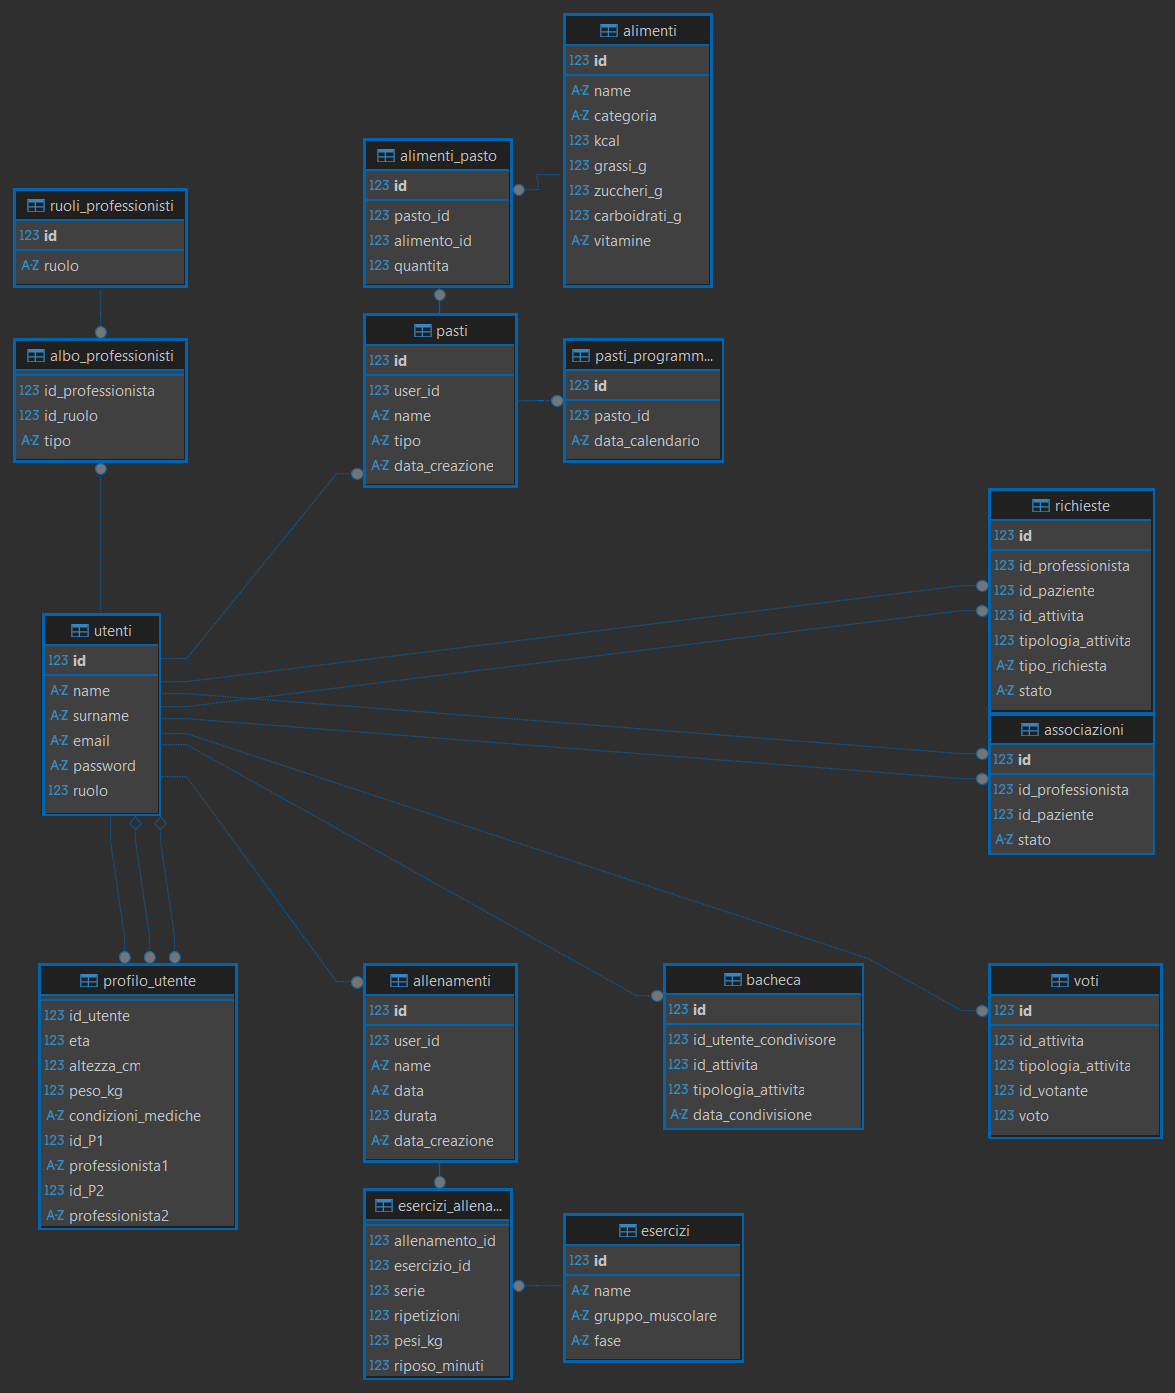
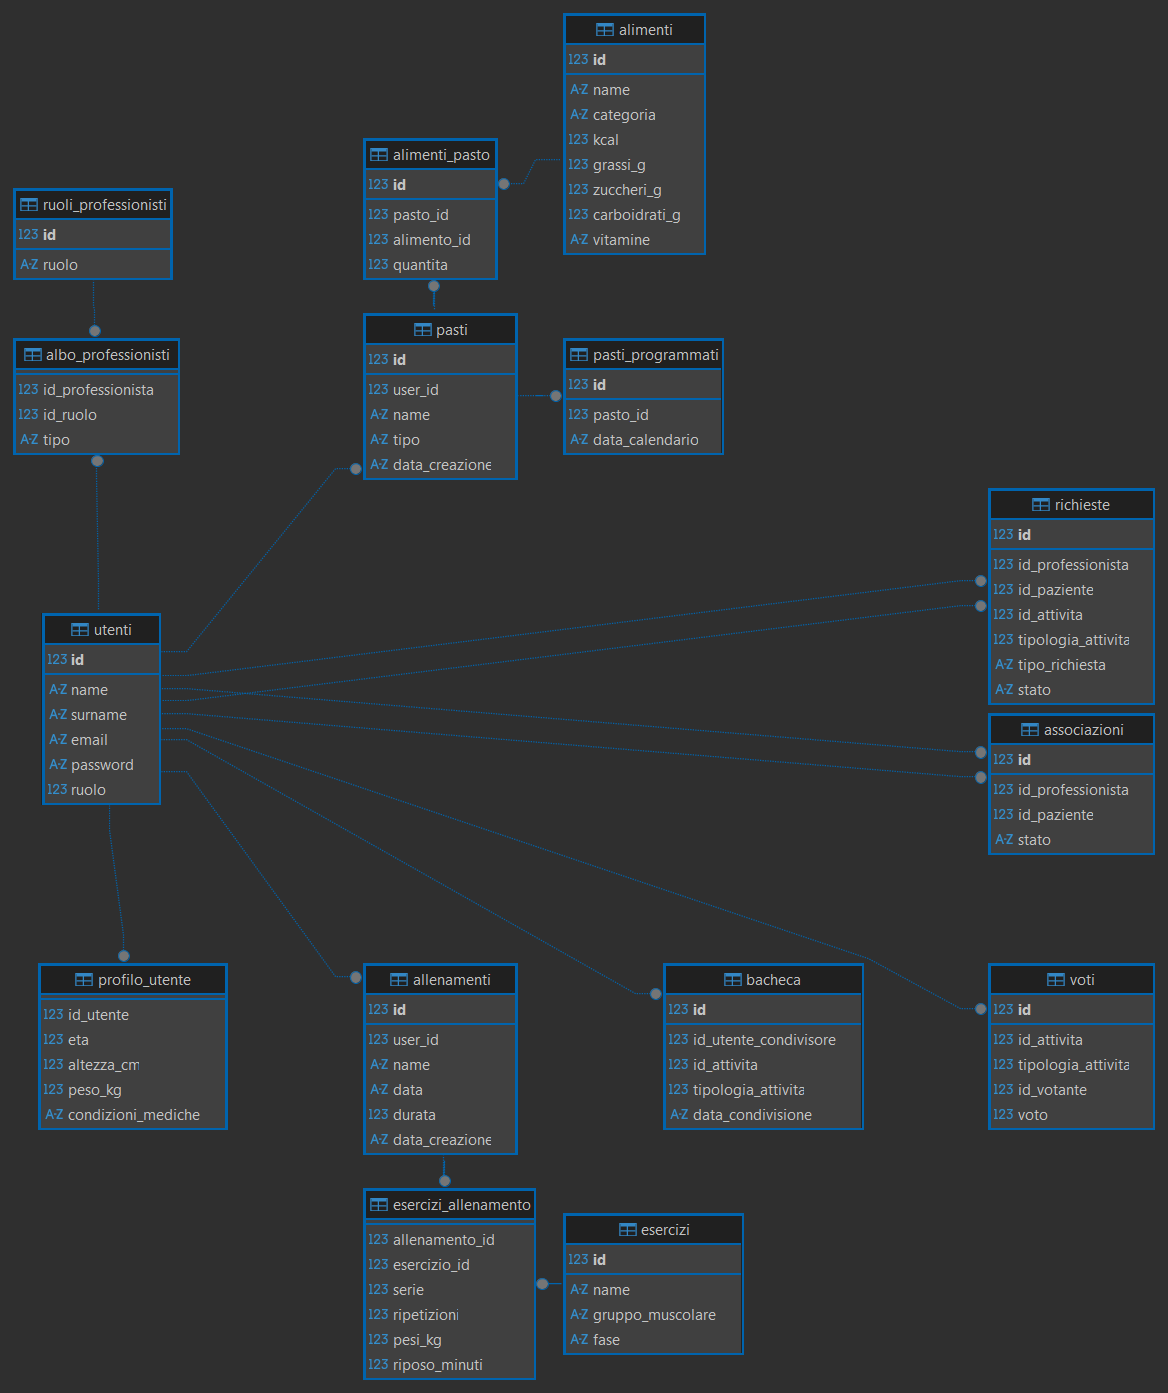
finalizzazione progetto

diff --git a/Express_Backend/db.js b/Express_Backend/db.js
@@ -36,13 +36,7 @@ db.serialize(() => {
         altezza_cm INTEGER,
         peso_kg INTEGER,
         condizioni_mediche VARCHAR(255),
-        id_P1 INTEGER,
-        professionista1 VARCHAR(50),
-        id_P2 INTEGER,
-        professionista2 VARCHAR(50),
-        FOREIGN KEY(id_utente) REFERENCES utenti(id),
-        FOREIGN KEY(id_P1) REFERENCES utenti(id),
-        FOREIGN KEY(id_P2) REFERENCES utenti(id)
+        FOREIGN KEY(id_utente) REFERENCES utenti(id) ON DELETE CASCADE
     )`, (err) => {
         if (err) {
             console.error('Errore nella creazione della tabella profilo_utente ' + err.message);
@@ -104,17 +98,13 @@ db.serialize(() => {
     });
 
     //creazione della tabella dei voti delle attività
-    /*db.run('DROP TABLE IF EXISTS voti', (err) => {
-        if (err) {
-            console.error('Errore nella cancellazione della tabella voti ' + err.message);
-        }
-    });*/
     db.run(`CREATE TABLE IF NOT EXISTS voti (
         id INTEGER PRIMARY KEY AUTOINCREMENT,
         id_attivita INTEGER NOT NULL,
         tipologia_attivita INTEGER NOT NULL,
         id_votante INTEGER NOT NULL,
         voto INTEGER NOT NULL,
+        UNIQUE(id_attivita, tipologia_attivita, id_votante),
         FOREIGN KEY(id_votante) REFERENCES utenti(id) ON DELETE CASCADE
     )`, (err) => {
         if (err) {
@@ -123,11 +113,6 @@ db.serialize(() => {
     });
 
     //creazione della tabella della bacheca
-    /*db.run('DROP TABLE IF EXISTS bacheca', (err) => {
-        if (err) {
-            console.error('Errore nella cancellazione della tabella bacheca ' + err.message);
-        }
-    });*/
     db.run(`CREATE TABLE IF NOT EXISTS bacheca (
         id INTEGER AUTO_INCREMENT PRIMARY KEY,
         id_utente_condivisore INTEGER NOT NULL,
@@ -259,20 +244,6 @@ db.serialize(() => {
             comando.run('Diabetologo');
             comando.run('Chiropratico');
             comando.run('Dietista');
-        }
-    });
-
-    //popolazione della tabella albo_professionisti se non è già popolata
-    //la tabella albo_professionisti va continuata a popolare tramite registrazione o modifica profilo professionista
-    db.get('SELECT COUNT(*) AS count FROM albo_professionisti', (err, row) => {
-        if (err) {
-            console.error('Errore nella selezione degli albo_professionisti ' + err.message);
-        } else if (row.count === 0) {
-            const comando = db.prepare('INSERT INTO albo_professionisti (id_professionista, id_ruolo, tipo) VALUES (?, ?, ?)');
-            comando.run(5, 2, 'Allenamenti');
-            comando.run(6, 1, 'Alimentazione');
-            comando.run(7, 7, 'Allenamenti');
-            comando.run(8, 3, 'Alimentazione');
         }
     });
 

diff --git a/Express_Backend/services/bachecaServices.js b/Express_Backend/services/bachecaServices.js
@@ -45,11 +45,18 @@ class BachecaServices {
     }
 
     static async votaAttivita(id_utente, attivita) {
-        const votata = await Bacheca.votaAttivita(id_utente, attivita);
-        if(votata) {
-            throw new Error('Errore nella votazione dell\'attività');
+        try {
+            const votata = await Bacheca.votaAttivita(id_utente, attivita);
+            if(!votata) {
+                throw {status: 500, message:'Errore nella votazione dell\'attività'};
+            }
+            return votata;
+        } catch (e) {
+            if(e?.code === 'SQLITE_CONSTRAINT' || e?.code === 'SQLITE_CONSTRAINT_UNIQUE' || e?.code === 'SQLITE_CONSTRAINT_PRIMARYKEY') {
+                throw {status: 409, message:'Hai già votato questa attività'};
+            }
+            throw e;
         }
-        return votata;
     };
 }
 module.exports = BachecaServices;

diff --git a/HEIDI/src/app/pages/allenamenti/creazione-allenamento/creazione-allenamento.page.ts b/HEIDI/src/app/pages/allenamenti/creazione-allenamento/creazione-allenamento.page.ts
@@ -85,9 +85,6 @@ esercizio_da_aggiungere:any = null //variabile per la gestione delle info
         const durataAllenamento = this.allenamentoForm.value.durata;
         //grazie al metodo split() posso trasformare il formato della data da YYYY-MM-dd T ore:minuti
         //al formato YYYY-MM-DD, escludendo così l'informazione sull'orario
-        console.log('Giorno letto:', giornoAllenamento);
-        console.log('giorno è di tipo:', typeof(giornoAllenamento));
-
         //ricava i dati inseriti nel form e quindi procede a controllare se esiste già un allenamento nello stesso giorno
     //se esiste, ritorna con un messaggio di errore impostato dal flag true
     //se non esiste, procede alla creazione dell'allenamento con i dati inseriti

diff --git a/HEIDI/src/app/pages/bacheca/bacheca.page.ts b/HEIDI/src/app/pages/bacheca/bacheca.page.ts
@@ -216,7 +216,14 @@ export class BachecaPage implements OnInit {
       }
       attivita.modalita_voto = false;
       attivita.disable_voto = true;
-    } catch(error) {
+    } catch(error:any) {
+      const message = error?.error?.error || error?.error?.message || 'Errore interno del server';
+      const alert = await this.alertController.create({
+        header: 'Occhio',
+        message: message,
+        buttons: ['OK']
+      });
+      await alert.present();
       console.log(error);
     }
   }

diff --git a/HEIDI/src/app/pages/allenamenti/allenamenti-utente/allenamenti-utente.page.ts b/HEIDI/src/app/pages/allenamenti/allenamenti-utente/allenamenti-utente.page.ts
@@ -266,7 +266,14 @@ export class AllenamentiUtentePage implements OnInit{
       }
 
       this.modalita_voto = false;
-    } catch(error) {
+    } catch(error:any) {
+      const message = error?.error?.error || error?.error?.message || 'Errore interno del server';
+      const alert = await this.alertController.create({
+        header: 'Occhio',
+        message: message,
+        buttons: ['OK']
+      });
+      await alert.present();
       console.log(error);
     }
   }

diff --git a/HEIDI/src/app/pages/pasti/pasti-utente/pasti-utente.page.ts b/HEIDI/src/app/pages/pasti/pasti-utente/pasti-utente.page.ts
@@ -324,7 +324,14 @@ export class PastiUtentePage implements OnInit {
       }
 
       this.modalita_voto = false;
-    } catch(error) {
+    } catch(error:any) {
+      const message = error?.error?.error || error?.error?.message || 'Errore interno del server';
+      const alert = await this.alertController.create({
+        header: 'Occhio',
+        message: message,
+        buttons: ['OK']
+      });
+      await alert.present();
       console.log(error);
     }
   }

diff --git a/HEIDI/src/app/components/modifica-dettagli/modifica-dettagli.component.ts b/HEIDI/src/app/components/modifica-dettagli/modifica-dettagli.component.ts
@@ -66,7 +66,6 @@ export class ModificaDettagliComponent {
 
 
   onDettaglioSelezionato(dettaglio:number) {
-    console.log('Dettaglio ricevuto:', dettaglio)
     this.dettaglio_selezionato_in_attesa.emit(dettaglio);
   }
 
@@ -88,7 +87,6 @@ export class ModificaDettagliComponent {
       }
     });
     this.inviaModifiche.emit(dettagli_sistemati);
-    console.log('dettagli mandati sopra:', dettagli_sistemati);
     this.clickChiudi();
   }
 

diff --git a/HEIDI/src/app/pages/utente/richieste/richieste.page.ts b/HEIDI/src/app/pages/utente/richieste/richieste.page.ts
@@ -187,7 +187,6 @@ export class RichiestePage implements OnInit {
     try {
       const response = await firstValueFrom(this.userService.accettaAssociazione(id_associazione));
       if(response && response.status === 201) {
-        console.log('Associazione accettata con successo');
         this.loadAssociazioniProfessionista();
       } else {
         console.log('Errore nell\'accettazione dell\'associazione');

diff --git a/Express_Backend/controllers/bachecaControllers.js b/Express_Backend/controllers/bachecaControllers.js
@@ -77,7 +77,7 @@ class BachecaControllers {
             const result = await BachecaServices.votaAttivita(id_utente, attivita);
             res.status(201).json({message: 'Voto piazzato con successo', result});
         } catch(e) {
-            res.status(500).json({error: e.message});
+            res.status(e?.status || 500).json({error: e?.message || 'Errore interno del server'});
         }
     };
 }

diff --git a/HEIDI/src/app/components/utenti-associati/utenti-associati.component.ts b/HEIDI/src/app/components/utenti-associati/utenti-associati.component.ts
@@ -19,7 +19,6 @@ export class UtentiAssociatiComponent  implements OnInit {
   ngOnInit() {}
 
   richiediAnnullamento(id_associazione:number) {
-    console.log('Ho ricevuto un ID lo tratto come se fosse quello dell\'associazione', id_associazione);
     this.cancella_associazione.emit(id_associazione);
   }
 

diff --git a/HEIDI/src/environments/environment.ts b/HEIDI/src/environments/environment.ts
@@ -4,7 +4,7 @@
 
 export const environment = {
   production: false,
-  apiUrl: 'http://192.168.1.67:3000' //'http://localhost:3000'
+  apiUrl: 'http://localhost:3000' //'http://192.168.1.67:3000'
 };
 
 /*

diff --git a/HEIDI/src/environments/environment.prod.ts b/HEIDI/src/environments/environment.prod.ts
@@ -1,4 +1,4 @@
 export const environment = {
   production: true,
-  apiUrl: 'http://192.168.1.67:3000' //'http://localhost:3000'
+  apiUrl: 'http://localhost:3000' //'http://192.168.1.67:3000'
 };
